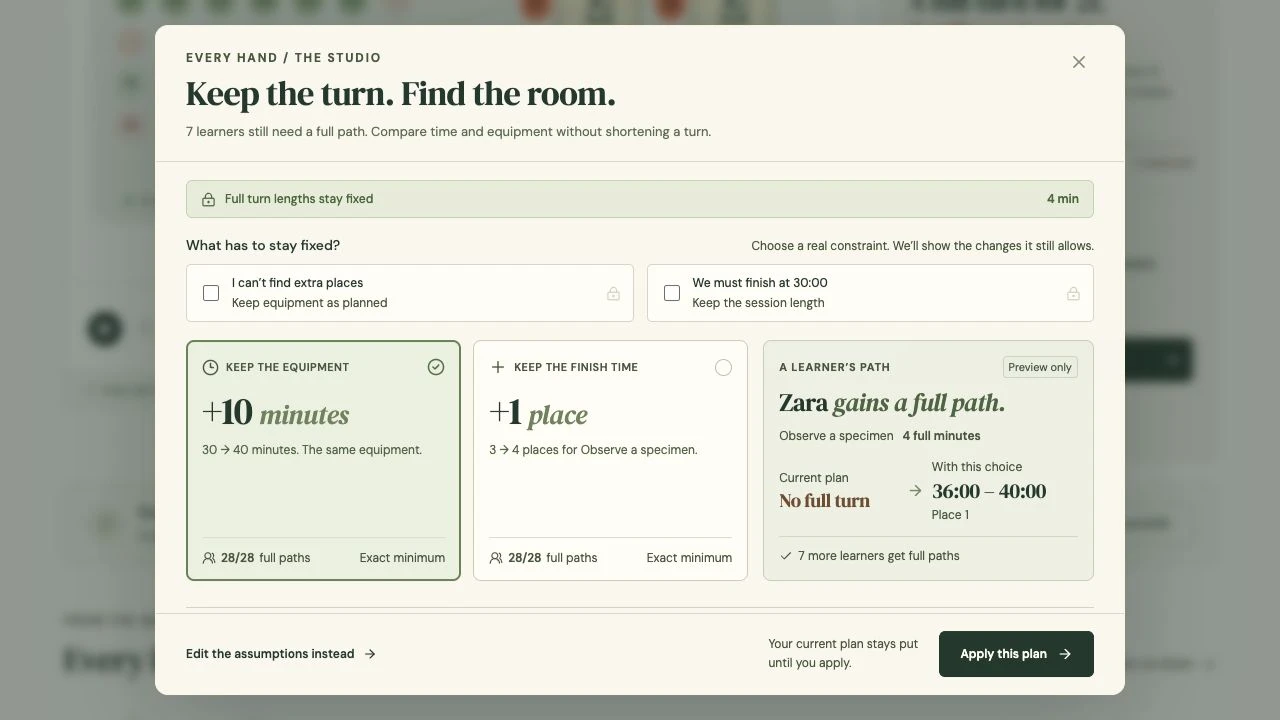
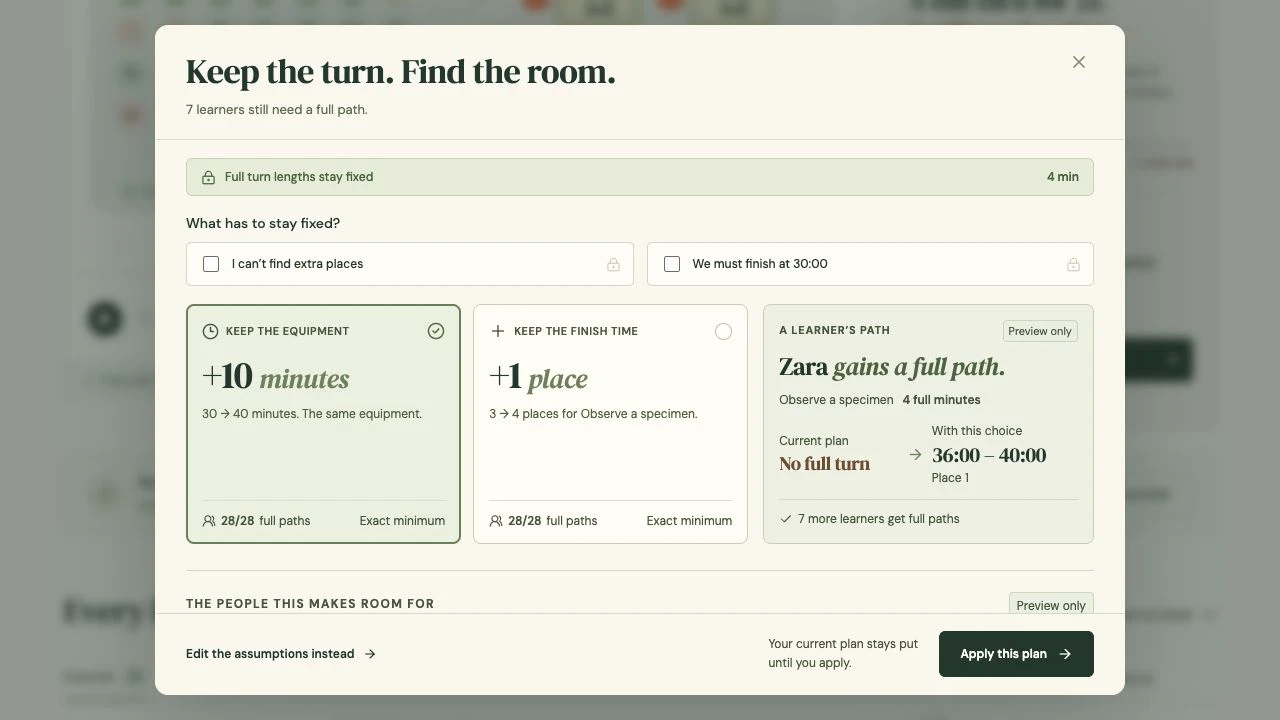
Simplify studio and dialog supporting copy

diff --git a/src/App.tsx b/src/App.tsx
@@ -10,7 +10,6 @@ import {
   FileText,
   Hand,
   Info,
-  Leaf,
   Minus,
   Plus,
   RotateCcw,
@@ -325,9 +324,6 @@ export default function App() {
             every hand<span className="brand-dot">.</span>
           </span>
         </a>
-        <div className="header-note">
-          <span className="tiny-flower">✳</span> Good learning makes room.
-        </div>
         <nav>
           <button
             className="text-button how-link"
@@ -367,10 +363,6 @@ export default function App() {
               <br />
               Getting a real turn is another.
             </p>
-            <span>
-              Plan the moments that let everyone
-              <br className="desktop-br" /> get their hands on the learning.
-            </span>
             <a href="#studio" className="jump-link">
               Let's make it work <ArrowDown size={16} />
             </a>
@@ -616,7 +608,6 @@ export default function App() {
           </div>
           <div className="roster-header">
             <div>
-              <p className="eyebrow">FROM THE GROUP TO THE INDIVIDUAL</p>
               <h2>
                 Every learner. <em>A real turn.</em>
               </h2>
@@ -779,8 +770,6 @@ export default function App() {
             )}
           </div>
           <div className="bottom-note">
-            <Leaf size={16} />
-            <span>More thoughtful plans. More hands on the learning.</span>
             <button className="text-button" onClick={() => setDialog("import")}>
               <Sparkles size={14} />
               Start from your own lesson
@@ -840,7 +829,6 @@ export default function App() {
               ? "Make the draft yours."
               : "A little planning. More possibility."
           }
-          subtitle="Give each learner enough time and a place to try."
           onClose={closeDialog}
           wide
         >
@@ -1126,11 +1114,7 @@ export default function App() {
         </Modal>
       )}
       {dialog === "import" && (
-        <Modal
-          title="Bring your own little lesson."
-          subtitle="Turn a few notes into a plan you can inspect and adjust."
-          onClose={closeDialog}
-        >
+        <Modal title="Bring your own little lesson." onClose={closeDialog}>
           <div className="import-body">
             <label className="field">
               Your lesson notes
@@ -1172,11 +1156,7 @@ export default function App() {
         </Modal>
       )}
       {dialog === "about" && (
-        <Modal
-          title="A turn changes everything."
-          subtitle="Start with the individual. Then make the room work."
-          onClose={closeDialog}
-        >
+        <Modal title="A turn changes everything." onClose={closeDialog}>
           <div className="about-body">
             {[
               [
@@ -1221,7 +1201,7 @@ export default function App() {
       {selected !== null && (
         <Modal
           title={`${plan.learners[selected]}'s moment.`}
-          subtitle={`Learner ${String(selected + 1).padStart(2, "0")} · An individual path through the workshop`}
+          subtitle={`Learner ${String(selected + 1).padStart(2, "0")}`}
           onClose={() => setSelected(null)}
         >
           <div className="learner-detail">
@@ -1314,11 +1294,7 @@ function ExportModal({
   notify: (s: string) => void;
 }) {
   return (
-    <Modal
-      title="From the plan to the room."
-      subtitle="Your real schedule, ready to put into practice."
-      onClose={onClose}
-    >
+    <Modal title="From the plan to the room." onClose={onClose}>
       <div className="export-body">
         <div className="export-preview">
           <FileText size={34} />

diff --git a/src/ChoiceWorkspace.tsx b/src/ChoiceWorkspace.tsx
@@ -109,7 +109,7 @@ export default function ChoiceWorkspace({
   return (
     <Modal
       title="Keep the turn. Find the room."
-      subtitle={`${context.plan.learners.length - context.result.served} ${context.plan.learners.length - context.result.served === 1 ? "learner still needs" : "learners still need"} a full path. Compare time and equipment without shortening a turn.`}
+      subtitle={`${context.plan.learners.length - context.result.served} ${context.plan.learners.length - context.result.served === 1 ? "learner still needs" : "learners still need"} a full path.`}
       onClose={onClose}
       wide
       className="choice-workspace"
@@ -147,9 +147,6 @@ export default function ChoiceWorkspace({
           )}
           <div className="choice-question">
             <h3>What has to stay fixed?</h3>
-            <p>
-              Choose a real constraint. We’ll show the changes it still allows.
-            </p>
           </div>
           <div className="constraint-locks">
             <label className={locks.equipment ? "locked" : ""}>
@@ -162,7 +159,6 @@ export default function ChoiceWorkspace({
               />
               <span>
                 <b>I can’t find extra places</b>
-                <small>Keep equipment as planned</small>
               </span>
               <LockKeyhole size={15} />
             </label>
@@ -176,7 +172,6 @@ export default function ChoiceWorkspace({
               />
               <span>
                 <b>We must finish at {context.plan.minutes}:00</b>
-                <small>Keep the session length</small>
               </span>
               <LockKeyhole size={15} />
             </label>

diff --git a/src/Room.tsx b/src/Room.tsx
@@ -76,7 +76,6 @@ export default function Room({
       <div className="panel-top">
         <div>
           <span className="eyebrow">THE WORKSHOP</span>
-          <span className="view-label">A place for every learner</span>
         </div>
         <span className="preview-badge">
           <i />
@@ -399,7 +398,7 @@ export default function Room({
       </div>
       <div className="room-foot">
         <Check size={13} />
-        <span>Every dot is one learner. Every turn is theirs.</span>
+        <span>Every dot is one learner.</span>
         <span>Not live attendance</span>
       </div>
     </section>

diff --git a/src/Modal.tsx b/src/Modal.tsx
@@ -69,7 +69,6 @@ export default function Modal({
       >
         <div className="modal-header">
           <div>
-            <span className="eyebrow">EVERY HAND / THE STUDIO</span>
             <h2 id="dialog-title">{title}</h2>
             {subtitle && <p>{subtitle}</p>}
           </div>
